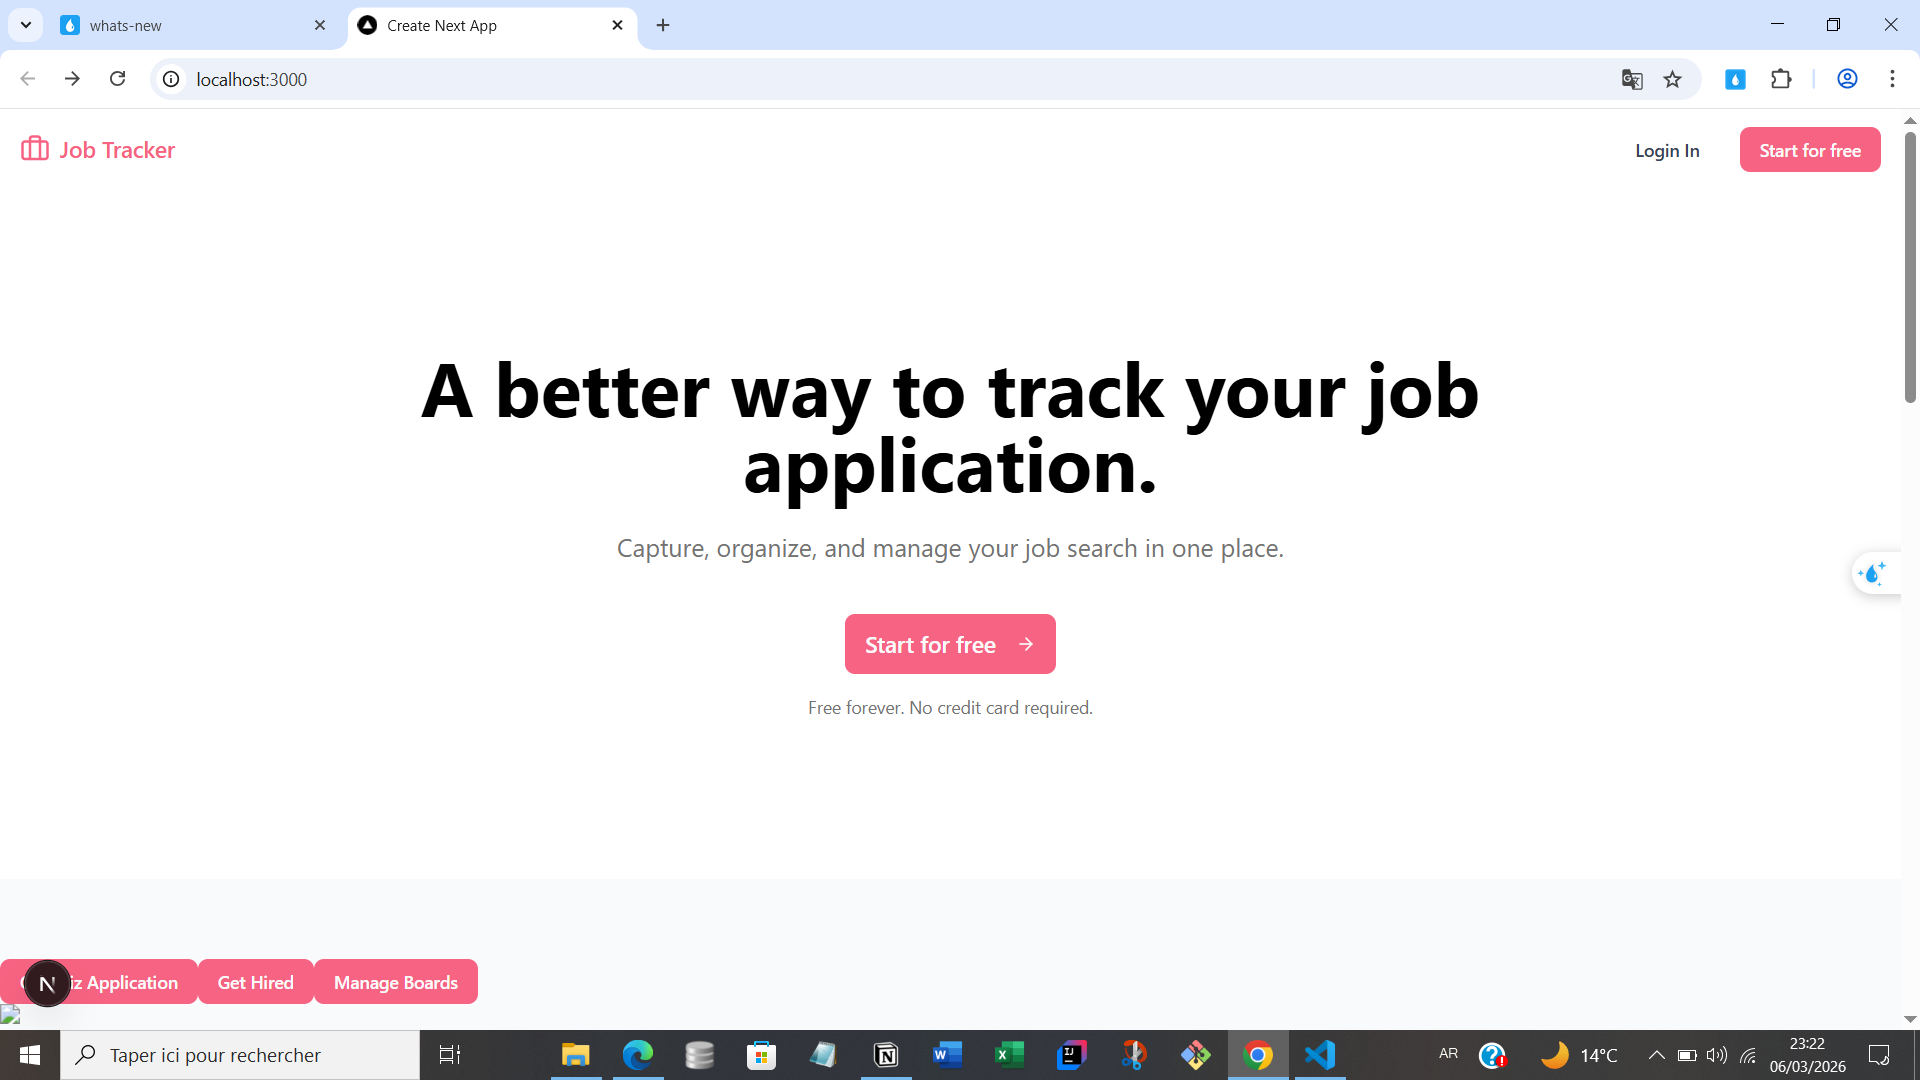
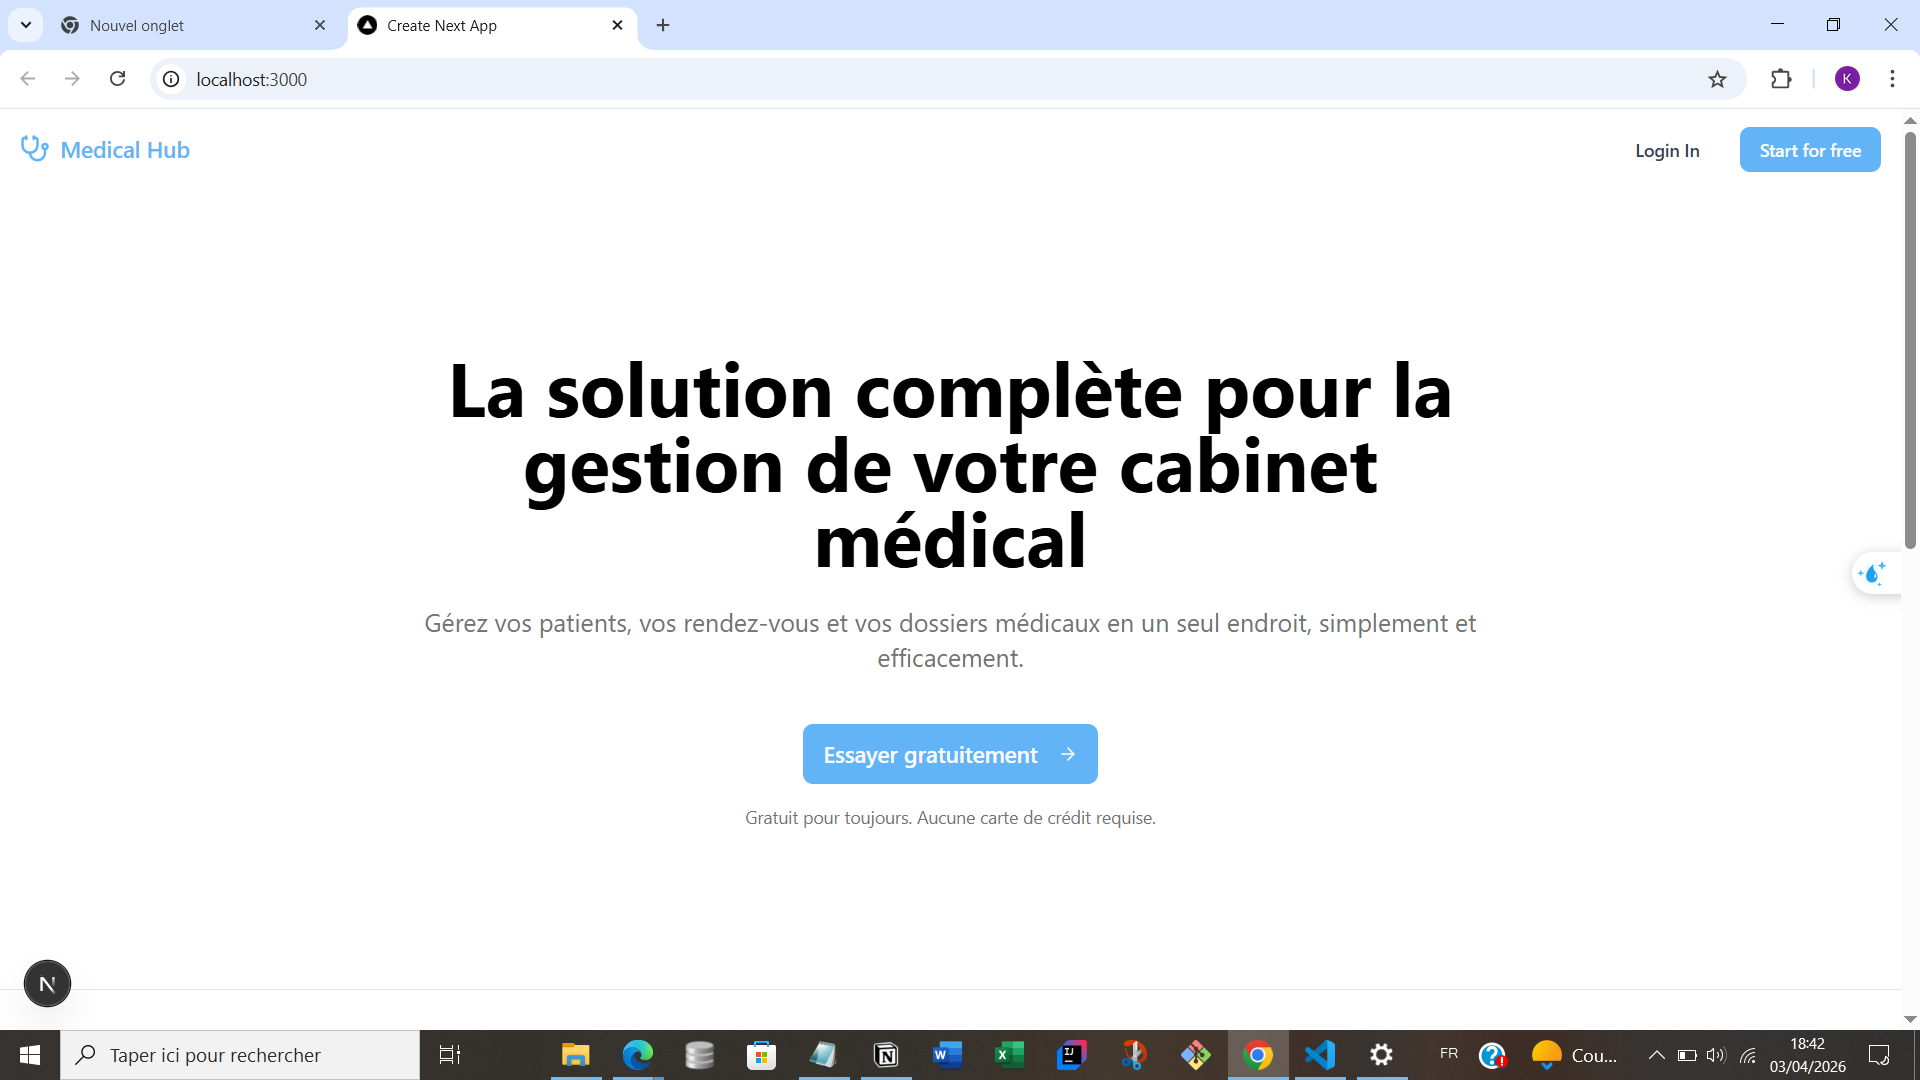
Fix: Removed old hero image and cleared cache

diff --git a/app/layout.tsx b/app/layout.tsx
@@ -26,7 +26,7 @@ export default function RootLayout({
   children: React.ReactNode;
 }>) {
   return (
-    <html lang="en">
+    <html lang="en" suppressHydrationWarning>
       <body
         className={`${geistSans.variable} ${geistMono.variable} antialiased`}
       >

diff --git a/app/page.tsx b/app/page.tsx
@@ -36,7 +36,7 @@ export default function Home() {
         </section>
 
         {/* Hero Image Section with Tabs */}
-        <section className="border-t bg-white py-16"> {/* تم تصحيح bg-white */}
+        <section className="border-t bg-white py-16"> 
           <div className="container mx-auto px-4">
             <div className="mx-auto max-w-6xl">
               {/* Tabs */}